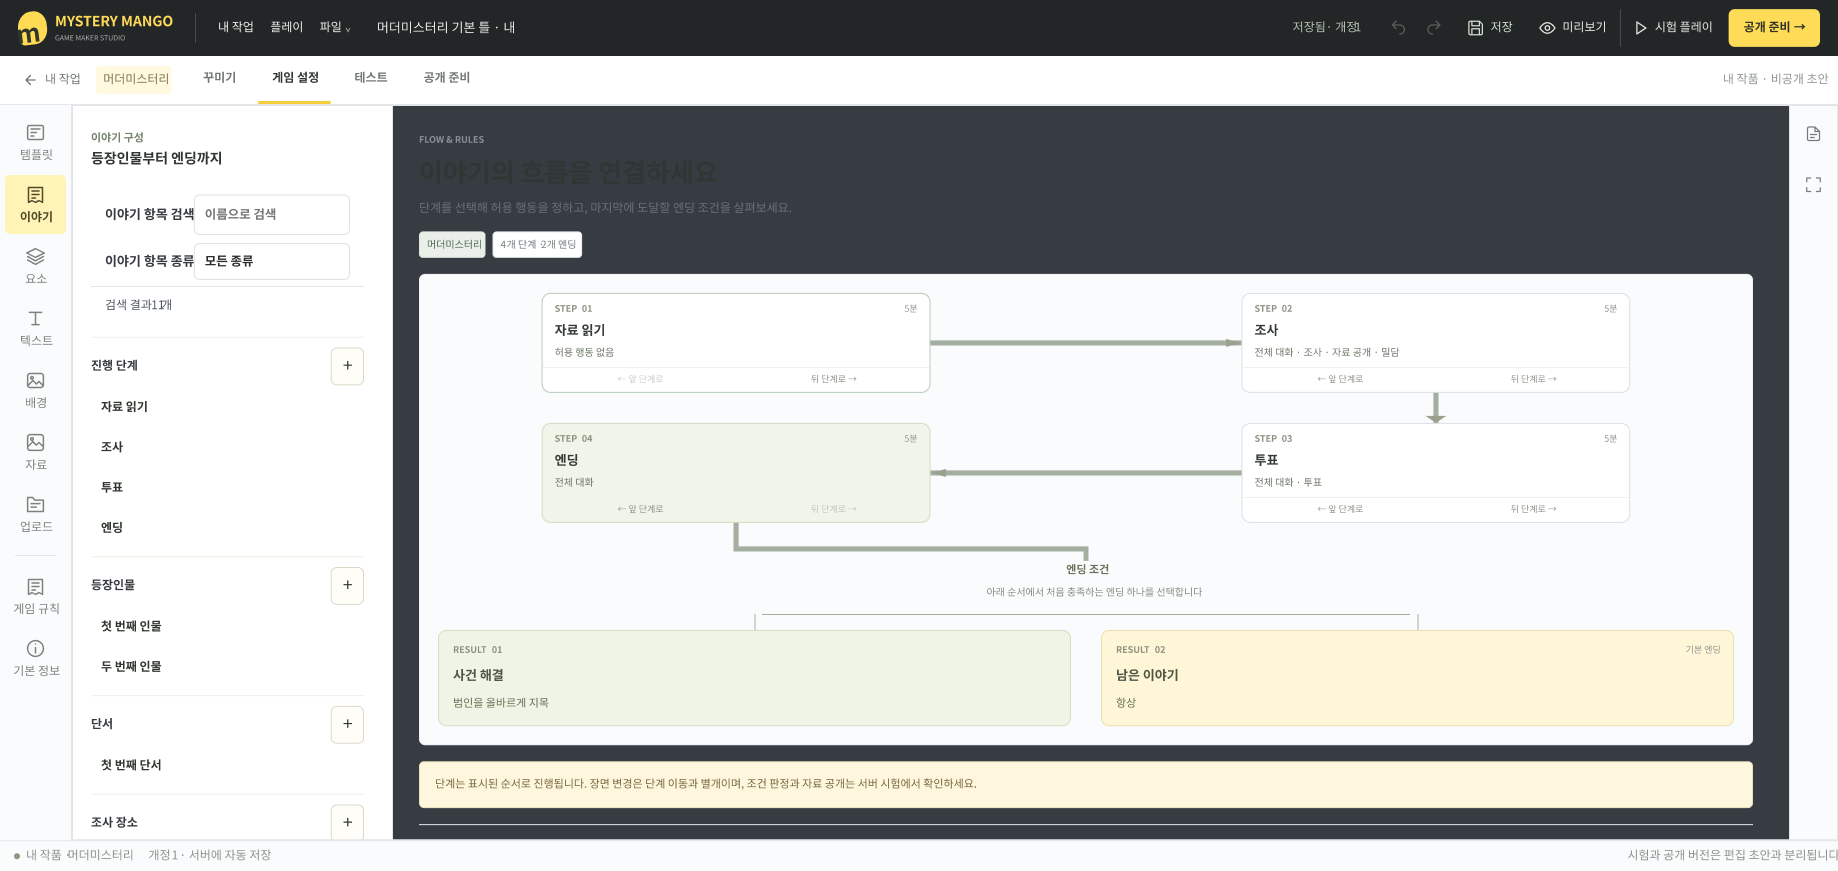
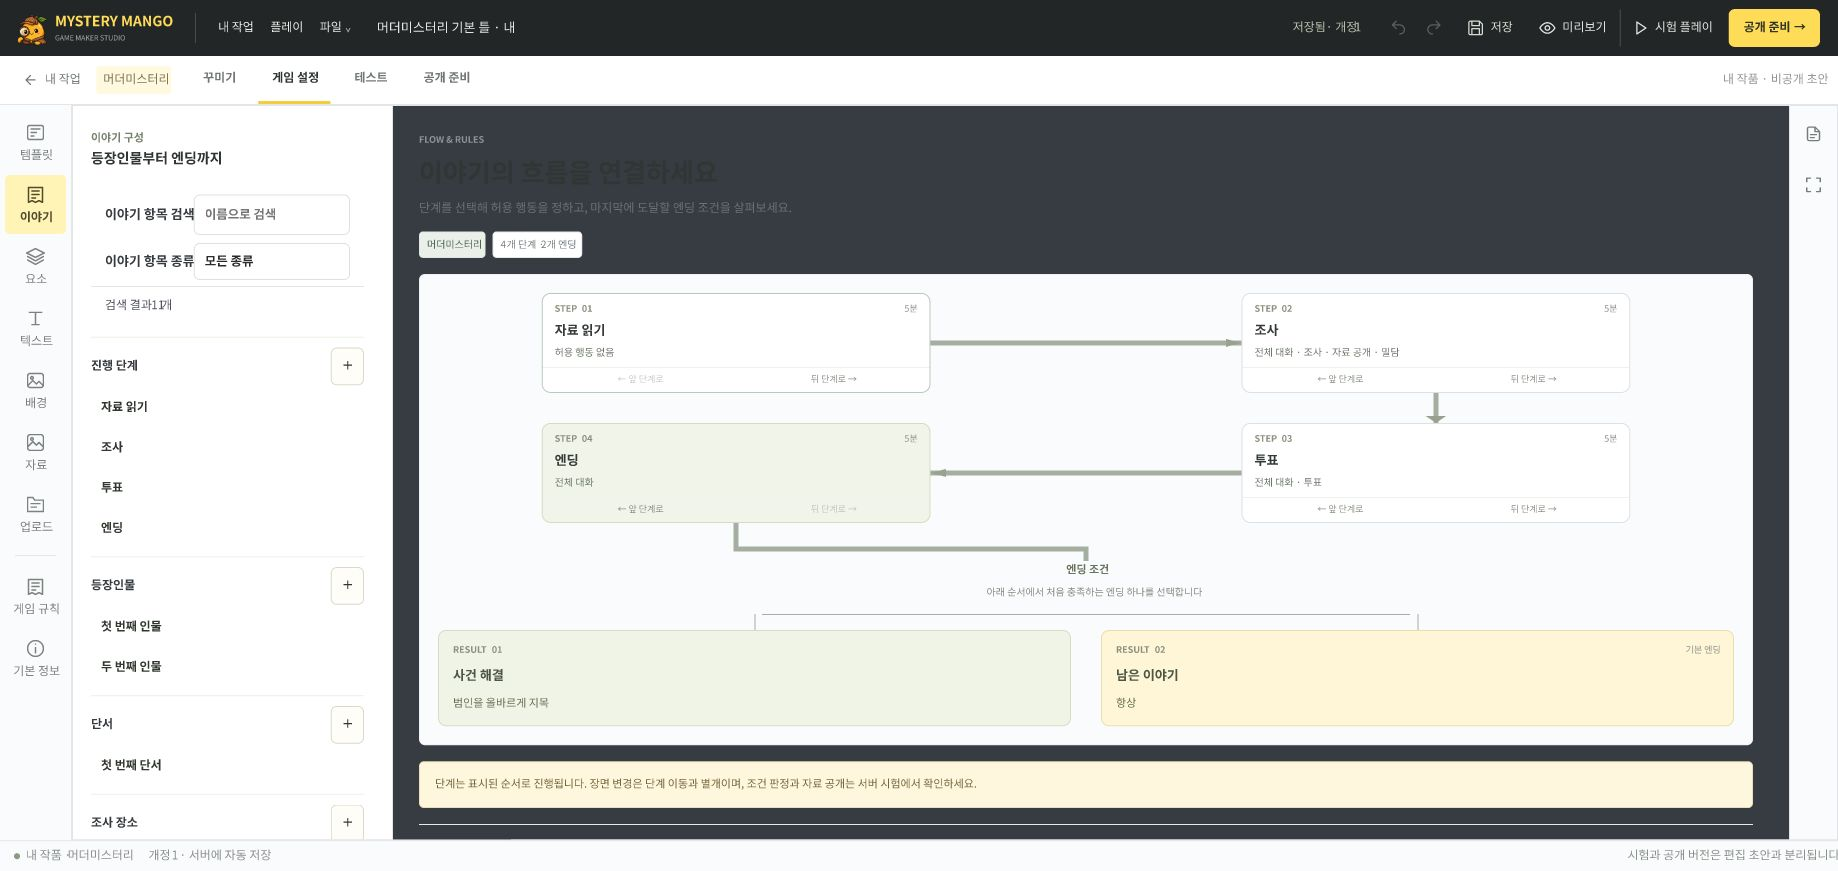
design: 피그마 브랜드 배너와 화면 이미지 동기화

Changed region(s): [[0.9304, 0.0, 0.9924, 0.062], [0.0, 0.0, 0.093, 0.062], [0.1551, 0.093, 0.1861, 0.124]]

diff --git a/docs/images/README.md b/docs/images/README.md
@@ -1,6 +1,6 @@
 # 문서 이미지
 
-[프로젝트 README](../../README.md)와 [주요 화면 모음](../screens.md)에서 사용하는 이미지입니다. 배너는 문서용 일러스트이고, 화면 이미지는 2026-10-18에 확인한 배포 화면을 정리한 [Figma UI 문서](https://www.figma.com/design/Y4orK4LUYK19NXmVlmskdV/mystery-mango)에서 가져왔습니다.
+[프로젝트 README](../../README.md)와 [주요 화면 모음](../screens.md)에서 사용하는 이미지입니다. 배너는 문서용 일러스트이고, 화면 이미지는 2026-10-18에 확인한 배포 화면을 바탕으로 한 [Figma UI 문서](https://www.figma.com/design/Y4orK4LUYK19NXmVlmskdV/mystery-mango)에서 가져왔습니다. 화면 본문의 UI 기준일은 유지하며, 배너와 로고의 브랜딩 동기화일은 2026-10-28입니다.
 
 ## README 배너
 
@@ -8,29 +8,37 @@
 
 실제 사용한 [생성 프롬프트](banner-prompt.txt)를 함께 보관합니다. 이 배너는 루트 README, 문서 허브, 프런트엔드 README에서 공통으로 사용합니다. 교체할 때는 제목의 가독성과 작은 화면에서의 잘림 여부를 확인합니다.
 
+2026-10-28에는 Figma의 `00 사업 개요 · 서비스 지도` 페이지에 [편집 가능한 배너](https://www.figma.com/design/Y4orK4LUYK19NXmVlmskdV/mystery-mango?node-id=147-6)를 구성했습니다. 제목은 Pixelify Sans Bold 텍스트, 배경과 장식은 SVG 벡터, 망고 탐정 캐릭터는 독립 PNG 레이어입니다. 문서에 삽입하는 `readme-banner.png` 원본은 유지합니다.
+
+[banner-decoration.svg](banner-decoration.svg)는 배경과 장식을 직접 제작한 문서용 벡터 편집 소스입니다. 제목과 캐릭터를 제외한 1730 × 909 크기의 배너 구성 요소를 담으며, Figma에서는 제목 텍스트와 캐릭터 이미지 레이어를 함께 편집합니다.
+
 ## 사이트 로고
 
 [mango-detective.png](../../frontend/public/images/mango-detective.png)는 README 배너의 망고 탐정 캐릭터를 참고해 기본 이미지 생성 도구 `image_gen`으로 만든 1254 × 1254 투명 PNG입니다. 망고 얼굴·탐정 모자·초록 잎·돋보기를 남긴 로고이며 [실제 생성 프롬프트](logo-prompt.txt)를 함께 보관합니다.
 
-사이트 헤더, 스튜디오 상단과 브라우저 파비콘이 같은 파일을 사용합니다. 헤더에서는 서비스 이름이 링크의 접근 가능한 이름을 제공하므로 캐릭터 이미지의 대체 텍스트는 비워 중복 읽기를 피합니다. 교체할 때는 흰색·차콜색 배경과 모바일 크기에서 투명 배경, 비율, 식별성을 확인합니다.
+사이트 헤더, 홈의 제작 화면 예시, 스튜디오 상단과 브라우저 파비콘이 같은 파일을 사용합니다. 헤더에서는 서비스 이름이 링크의 접근 가능한 이름을 제공하므로 캐릭터 이미지의 대체 텍스트는 비워 중복 읽기를 피합니다. 교체할 때는 흰색·차콜색 배경과 모바일 크기에서 투명 배경, 비율, 식별성을 확인합니다.
+
+2026-10-28에는 Figma 화면의 기존 로고 34곳을 같은 망고 탐정 캐릭터로 교체했습니다. 사이트 헤더 24곳은 42px, 스튜디오 상단 6곳은 34px, 제작 예시 4곳은 24px의 정사각형으로 배치했습니다.
 
 ## Figma 화면 이미지
 
-| 파일 | 크기 | 출처 |
-| --- | --- | --- |
-| [home.jpg](home.jpg) | 1838 × 871 | 홈 프로토타입의 첫 화면 캡처 |
-| [home-full.png](home-full.png) | 1823 × 3335 | 홈 전체 프레임 `41:463` |
-| [matching.png](matching.png) | 1823 × 1126 | 머더미스터리 매칭 조건 `68:589` |
-| [studio-gallery.png](studio-gallery.png) | 1823 × 2106 | 템플릿과 내 작품 `68:7743` |
-| [studio-story.png](studio-story.png) | 1838 × 871 | 이야기 흐름 편집 `68:8957` |
-| [studio-publish.png](studio-publish.png) | 1838 × 871 | 공개 준비 `68:11351` |
+화면 본문은 2026-10-18의 UI를 기준으로 하며, 아래 파일은 2026-10-28 브랜딩을 반영한 Figma 화면을 담습니다. Chrome 캡처는 프로토타입을 100% 배율로 표시해 획득하며, 긴 화면은 스크롤 캡처를 연결합니다.
+
+| 파일 | 크기 | Figma 출처 | 획득 방식 |
+| --- | --- | --- | --- |
+| [home.jpg](home.jpg) | 1838 × 871 | 홈 `41:463` | Chrome 프로토타입 첫 화면 캡처 |
+| [home-full.png](home-full.png) | 1823 × 3335 | 홈 전체 `41:463` | Figma 프레임 PNG 직접 내보내기 |
+| [matching.png](matching.png) | 1823 × 1126 | 머더미스터리 매칭 조건 `68:589` | Chrome 프로토타입 스크롤 캡처 연결 |
+| [studio-gallery.png](studio-gallery.png) | 1823 × 2106 | 템플릿과 내 작품 `68:7743` | Chrome 프로토타입 스크롤 캡처 연결 |
+| [studio-story.png](studio-story.png) | 1838 × 871 | 이야기 흐름 편집 `68:8957` | Chrome 프로토타입 화면 캡처 |
+| [studio-publish.png](studio-publish.png) | 1838 × 871 | 공개 준비 `68:11351` | Chrome 프로토타입 화면 캡처 |
 
 ## 화면 이미지 갱신 방법
 
-1. 배포 화면 또는 로컬 개발 화면 중 어느 상태를 담는지 확인합니다.
+1. 배포 화면 또는 로컬 개발 화면 중 어느 상태를 담는지 확인하고, UI 기준일과 브랜딩만 갱신한 날짜를 구분합니다.
 2. Figma의 대응 프레임을 최신 화면에 맞추고 하단 누락·겹침과 원래 가로·세로 비율을 확인합니다.
-3. 프레임은 원래 크기의 PNG로 내보내 같은 파일명으로 교체합니다. 홈 첫 화면은 프로토타입 캡처의 실제 파일 형식인 JPEG를 유지합니다.
-4. 이 목록의 치수와 [화면 모음의 기준일·운영 반영 범위](../screens.md#이미지-기준과-갱신)를 함께 갱신합니다.
+3. 가능한 경우 프레임을 원래 크기의 PNG로 직접 내보냅니다. 직접 내보내기를 사용할 수 없으면 Chrome에서 프로토타입을 100% 배율로 표시해 캡처합니다. 긴 화면은 겹치는 영역을 맞춰 스크롤 캡처를 연결하고 상단·하단 누락과 중복을 확인합니다.
+4. 기존 파일명과 가로·세로 비율을 유지합니다. 홈 첫 화면은 JPEG, 나머지 화면은 PNG로 저장하며 확장자와 실제 파일 형식을 맞춥니다. 이 목록의 획득 방식·치수와 [화면 모음의 기준일·운영 반영 범위](../screens.md#이미지-기준과-갱신)를 함께 갱신합니다.
 5. README·문서에서 이미지가 열리는지 확인합니다. Figma의 임시 다운로드 주소와 로컬 임시 경로는 본문에 사용하지 않습니다.
 
 서비스 글꼴은 Pretendard이며, Figma에서 사용한 대체 글꼴은 Noto Sans KR입니다. 문서 이미지에 실제 게임의 개인 비밀·엔딩 본문이나 계정의 민감 정보를 추가하지 않습니다.

diff --git a/README.md b/README.md
@@ -206,7 +206,7 @@ Discord가 미설정이면 텍스트 플레이가 정상 동작하며 음성 모
 
 ## 🖼 주요 화면
 
-아래 이미지는 **2026-10-18에 배포 화면을 확인해 정리한 Figma 문서**에서 가져왔습니다. 저장소의 이후 편집기 보완과 화면 차이는 [이미지 기준과 전체 화면](docs/screens.md)에서 확인할 수 있습니다.
+아래 이미지는 **2026-10-18의 배포 화면을 바탕으로 하고, 2026-10-28에 배너와 망고 탐정 로고를 반영한 Figma 문서**에서 가져왔습니다. 화면 본문의 기준일과 브랜딩 갱신일, 이미지 획득 방식은 [이미지 기준과 전체 화면](docs/screens.md)에서 확인할 수 있습니다.
 
 [![미스터리 망고 홈 — 게임을 만들고 함께 플레이하는 서비스](docs/images/home.jpg)](docs/screens.md#홈)
 
